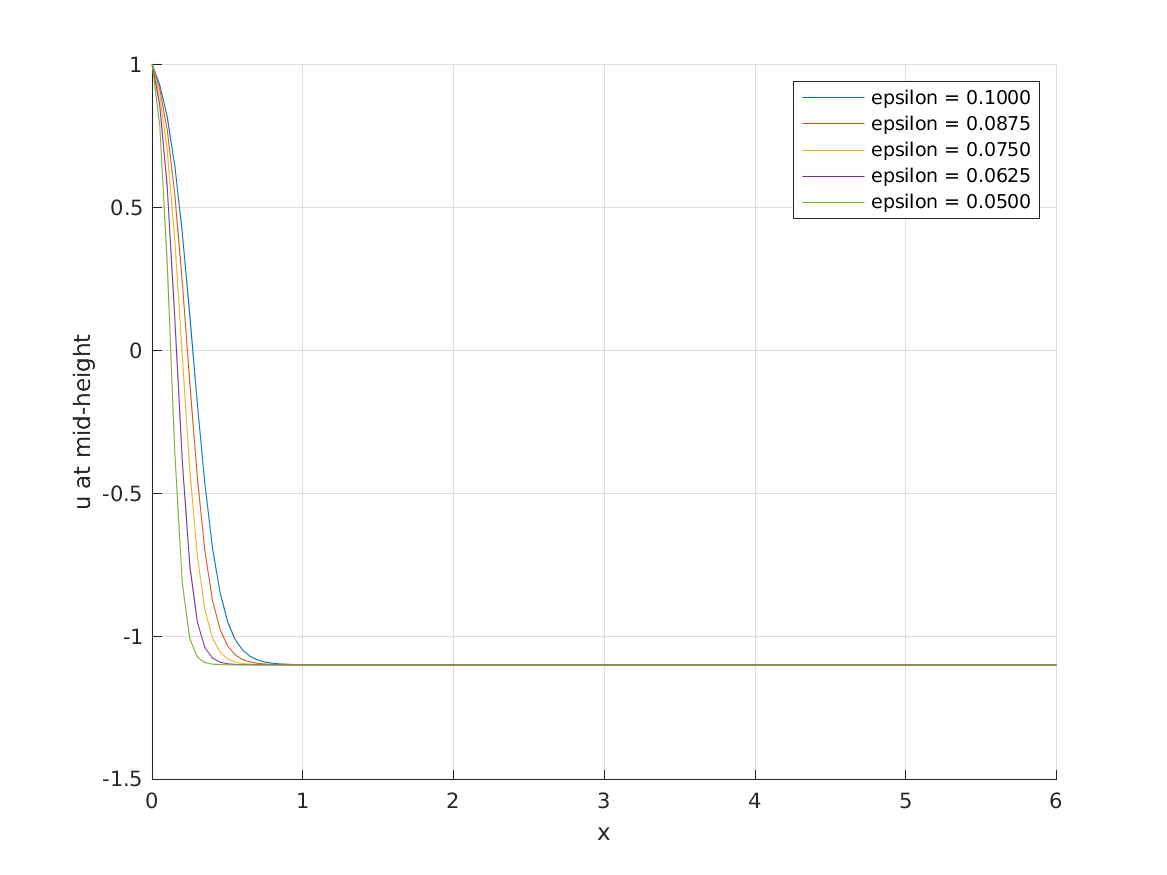
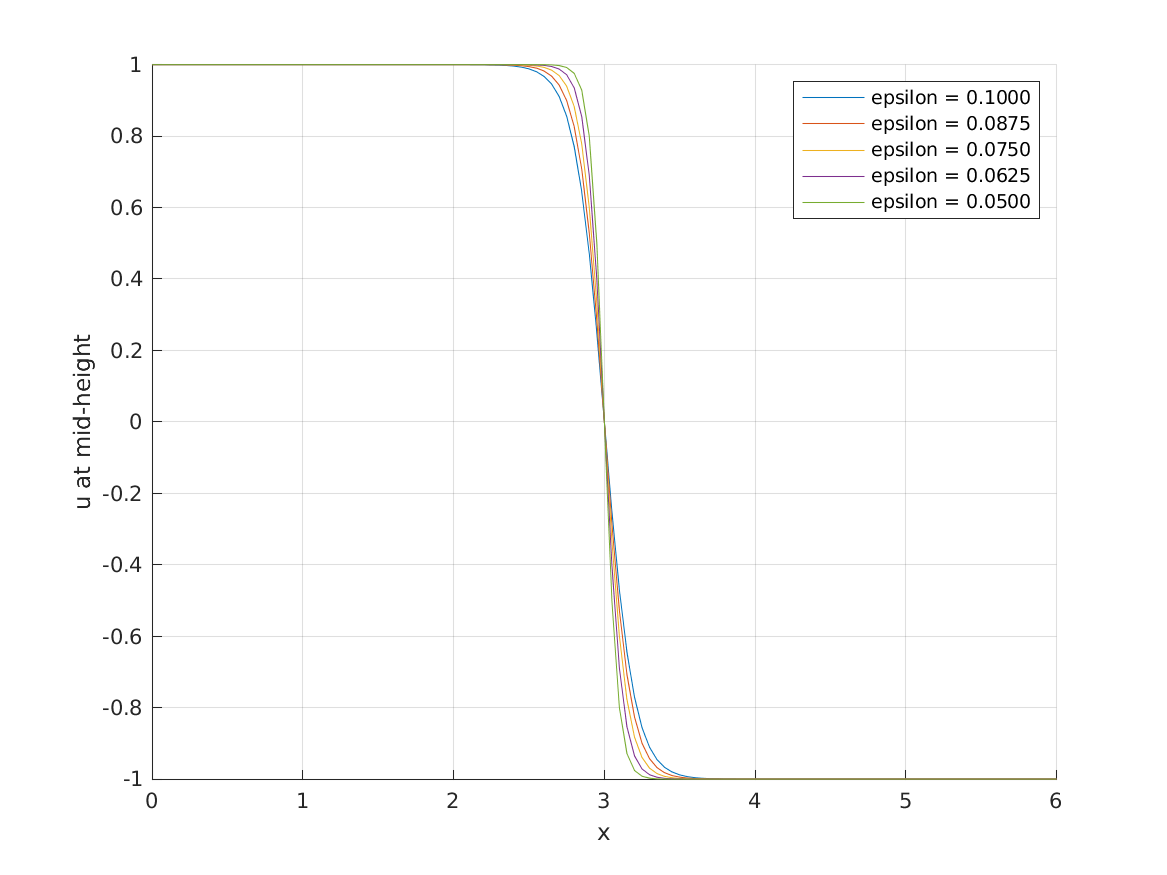
Regenerate default-example outputs and docs for boundary values +1/-1
Outputs copied from MATLAB R2024b CI run 45551286221. Test-problem CSVs
and grid_convergence.png are unchanged.

diff --git a/docs/validation.md b/docs/validation.md
@@ -1,8 +1,11 @@
 # Measured test results
 
-These results come from a run on 2026-10-23 with **MATLAB 24.2.0.3361896 (R2024b), Update 10**, on an Ubuntu GitHub-hosted runner. The [CI run](https://github.com/dchwu2003/Non-linear-PDE-solver/actions/runs/40029637502) passed the tests and the full example, including figure generation.
+All results below come from **MATLAB 24.2.0.3361896 (R2024b), Update 10**, on an Ubuntu GitHub-hosted runner.
 
-Code version used for the solver and the experiments: [`3a89a08501076936d17c97f0cd1213e4c75a5bb1`](https://github.com/dchwu2003/Non-linear-PDE-solver/commit/3a89a08501076936d17c97f0cd1213e4c75a5bb1). The CSV files and figures in this repository are copies of that run's output, not hand-made examples. Running the commands in the README writes new outputs to `results/` and does not overwrite these copies.
+- Grid refinement tests: [CI run](https://github.com/dchwu2003/Non-linear-PDE-solver/actions/runs/40029637502) on 2026-10-23, code version [`3a89a08501076936d17c97f0cd1213e4c75a5bb1`](https://github.com/dchwu2003/Non-linear-PDE-solver/commit/3a89a08501076936d17c97f0cd1213e4c75a5bb1).
+- Default example: [CI run](https://github.com/dchwu2003/Non-linear-PDE-solver/actions/runs/45551286221) on 2026-11-25, code version [`d9217f36a020086f1d1273389697eb9511c7196d`](https://github.com/dchwu2003/Non-linear-PDE-solver/commit/d9217f36a020086f1d1273389697eb9511c7196d), after the default right boundary value was changed from -1.1 to -1. The test problems do not use the default boundary values. This run reproduced the grid refinement table below to the digits shown.
+
+Both runs passed the tests and the full example, including figure generation. The CSV files and figures in this repository are copies of that run's output, not hand-made examples. Running the commands in the README writes new outputs to `results/` and does not overwrite these copies.
 
 ## Grid refinement at fixed ε
 
@@ -22,27 +25,27 @@ Full-precision data: [analytic.csv](data/analytic.csv) (x-only test), [manufactu
 
 ## Default example: lowering ε step by step
 
-The example uses 121 x 61 nodes on `[0,6] x [0,5]`, left/right values 1 and -1.1, zero y derivatives on the top and bottom, relaxation 0.5, relative update tolerance `1e-8`, and absolute residual tolerance `1e-7`. Every ε value is solved. The change in the solution from one ε to the next is recorded but is not used to stop.
+The example uses 121 x 61 nodes on `[0,6] x [0,5]`, left/right values 1 and -1, zero y derivatives on the top and bottom, relaxation 0.5, relative update tolerance `1e-8`, and absolute residual tolerance `1e-7`. Every ε value is solved. The change in the solution from one ε to the next is recorded but is not used to stop.
 
-These settings differ from the run shown on the December 2025 poster (boundary values +1/−1, ε down to 0.01, 320×270 grid).
+The boundary values match the December 2025 poster (+1/−1). The ε range and grid differ from the poster's run (ε down to 0.01, 320×270 grid).
 
 | ε | Iterations | Final residual | Maximum cell Péclet number |
 |---|---:|---:|---:|
-| 0.1000 | 649 | 9.8386e-8 | 0.275 |
-| 0.0875 | 263 | 9.5291e-8 | 0.314 |
-| 0.0750 | 269 | 9.8715e-8 | 0.367 |
-| 0.0625 | 277 | 9.5936e-8 | 0.440 |
-| 0.0500 | 287 | 9.5548e-8 | 0.550 |
+| 0.1000 | 47 | 7.8489e-8 | 0.250 |
+| 0.0875 | 40 | 7.0058e-8 | 0.286 |
+| 0.0750 | 41 | 6.9440e-8 | 0.333 |
+| 0.0625 | 42 | 9.1954e-8 | 0.400 |
+| 0.0500 | 45 | 7.5689e-8 | 0.500 |
 
 ![Residual history for each ε](figures/residuals.png)
 
-At the first ε, the residual stays nearly flat for a long time before it drops. A low iteration limit would stop this example too early. The sparse matrices are built once per ε, but the iteration is still fairly slow here. We make no claims about speed.
+At each ε, the residual drops steadily after the first few iterations. The sparse matrices are built once per ε. We make no claims about speed.
 
 ![Solution profiles at mid-height](figures/profiles.png)
 
 ![Final solution surface](figures/solution.png)
 
-Because the right boundary value is more negative than the left value is positive, the transition sits near the left boundary. For these boundary data the solution does not depend on y. The small residuals show that the iteration solved the discrete equations. They do not measure how accurate the grid is in the thin layer. The grid refinement results above apply only to those two test problems and their settings.
+The boundary values are equal and opposite, so the solution has flat states at 1 and -1 with a thin layer between them in the middle of the domain. At mid-height, the solution crosses zero at x = 3 for every ε, and the layer gets thinner as ε decreases. An unequal value such as -1.1 on the right pushes the layer toward the left boundary. For these boundary data the solution does not depend on y. The small residuals show that the iteration solved the discrete equations. They do not measure how accurate the grid is in the thin layer. The grid refinement results above apply only to those two test problems and their settings.
 
 Full-precision data: [continuation.csv](data/continuation.csv). The CI artifact `matlab-validation` contains the full solution arrays and histories in `example.mat` and the test report in `validation.mat`, subject to GitHub's artifact retention policy. The figures and CSV copies stay in the repository.
 

diff --git a/README.md b/README.md
@@ -16,7 +16,7 @@ $$u u_x-u_{yy}-\varepsilon u_{xx}=0$$
 
 on a grid with finite differences.
 
-The default example sets $u=1$ on the left edge and $u=-1.1$ on the right edge. On the top and bottom edges, $u_y=0$.
+The default example sets $u=1$ on the left edge and $u=-1$ on the right edge. On the top and bottom edges, $u_y=0$.
 
 ## Method
 
@@ -26,7 +26,7 @@ The default example sets $u=1$ on the left edge and $u=-1.1$ on the right edge. 
 
 [docs/numerical-method.md](docs/numerical-method.md) has the formulas and the standard names for these steps.
 
-The poster's run used boundary values +1 and −1, with ε lowered to 0.01 on a 320×270 grid. This release's default demonstration uses different settings (−1.1 on the right, ε down to 0.05, 121×61 grid).
+This release now uses the poster's boundary values, +1 on the left and −1 on the right. Like the poster, the solution has two flat states, u ≈ 1 and u ≈ −1, with a thin layer between them at the middle of the domain (x ≈ 3). The release still differs from the poster in ε (lowered to 0.05 instead of 0.01) and in the grid (121×61 instead of 320×270).
 
 The default boundary data do not depend on y, so the default solution does not depend on y either. Its plot therefore does not exercise the y direction of the code. A separate test problem whose solution varies in y covers that.
 
@@ -84,7 +84,7 @@ Edit `default_config.m` to change the example:
 | Grid nodes `Nx`, `Ny` | 121, 61 |
 | Domain lengths `Lx`, `Ly` | 6, 5 |
 | ε values | `linspace(0.1,0.05,5)` |
-| Left/right boundary values | 1, −1.1 |
+| Left/right boundary values | 1, −1 |
 | Maximum iterations per ε | 1000 |
 | Relative update tolerance | `1e-8` |
 | Absolute residual tolerance | `1e-7` |
